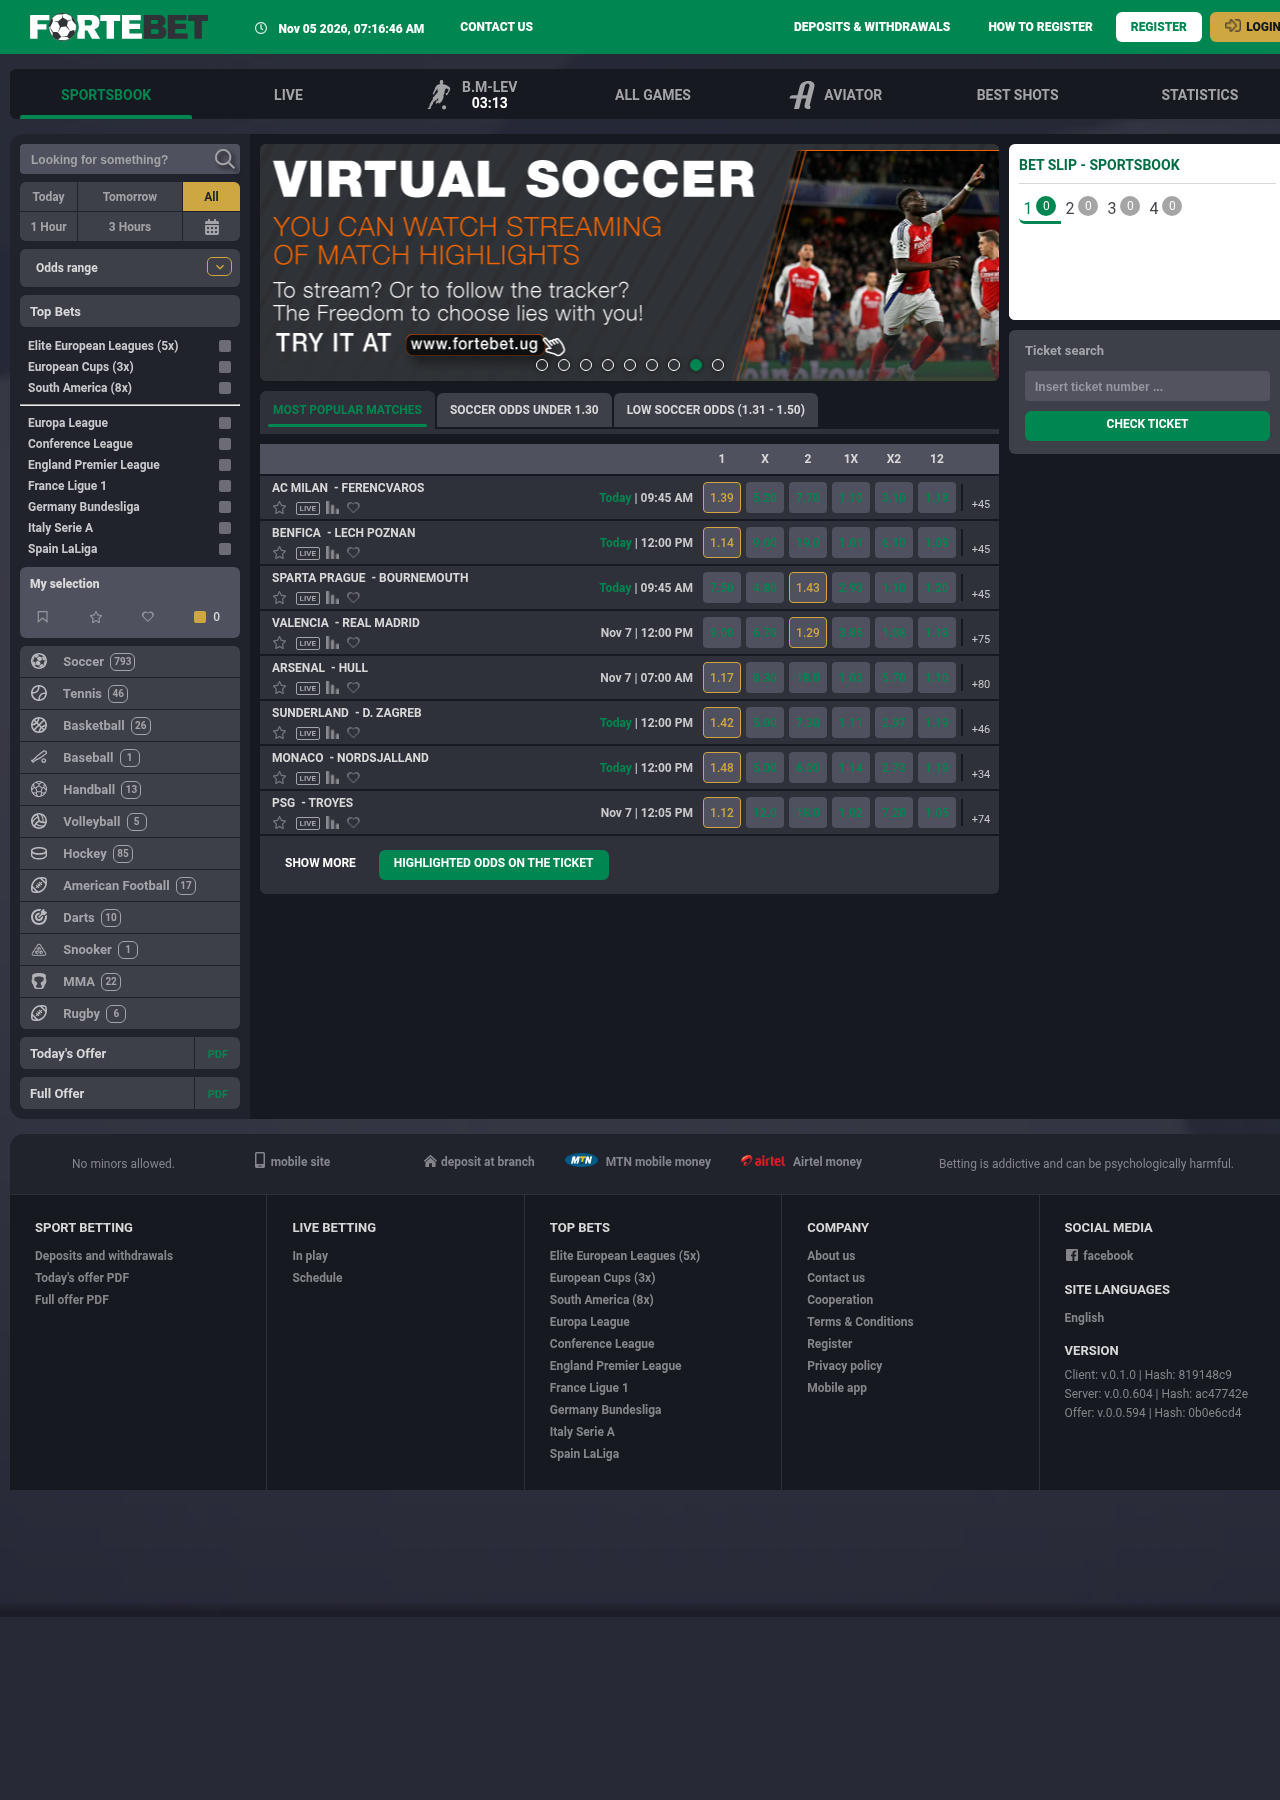
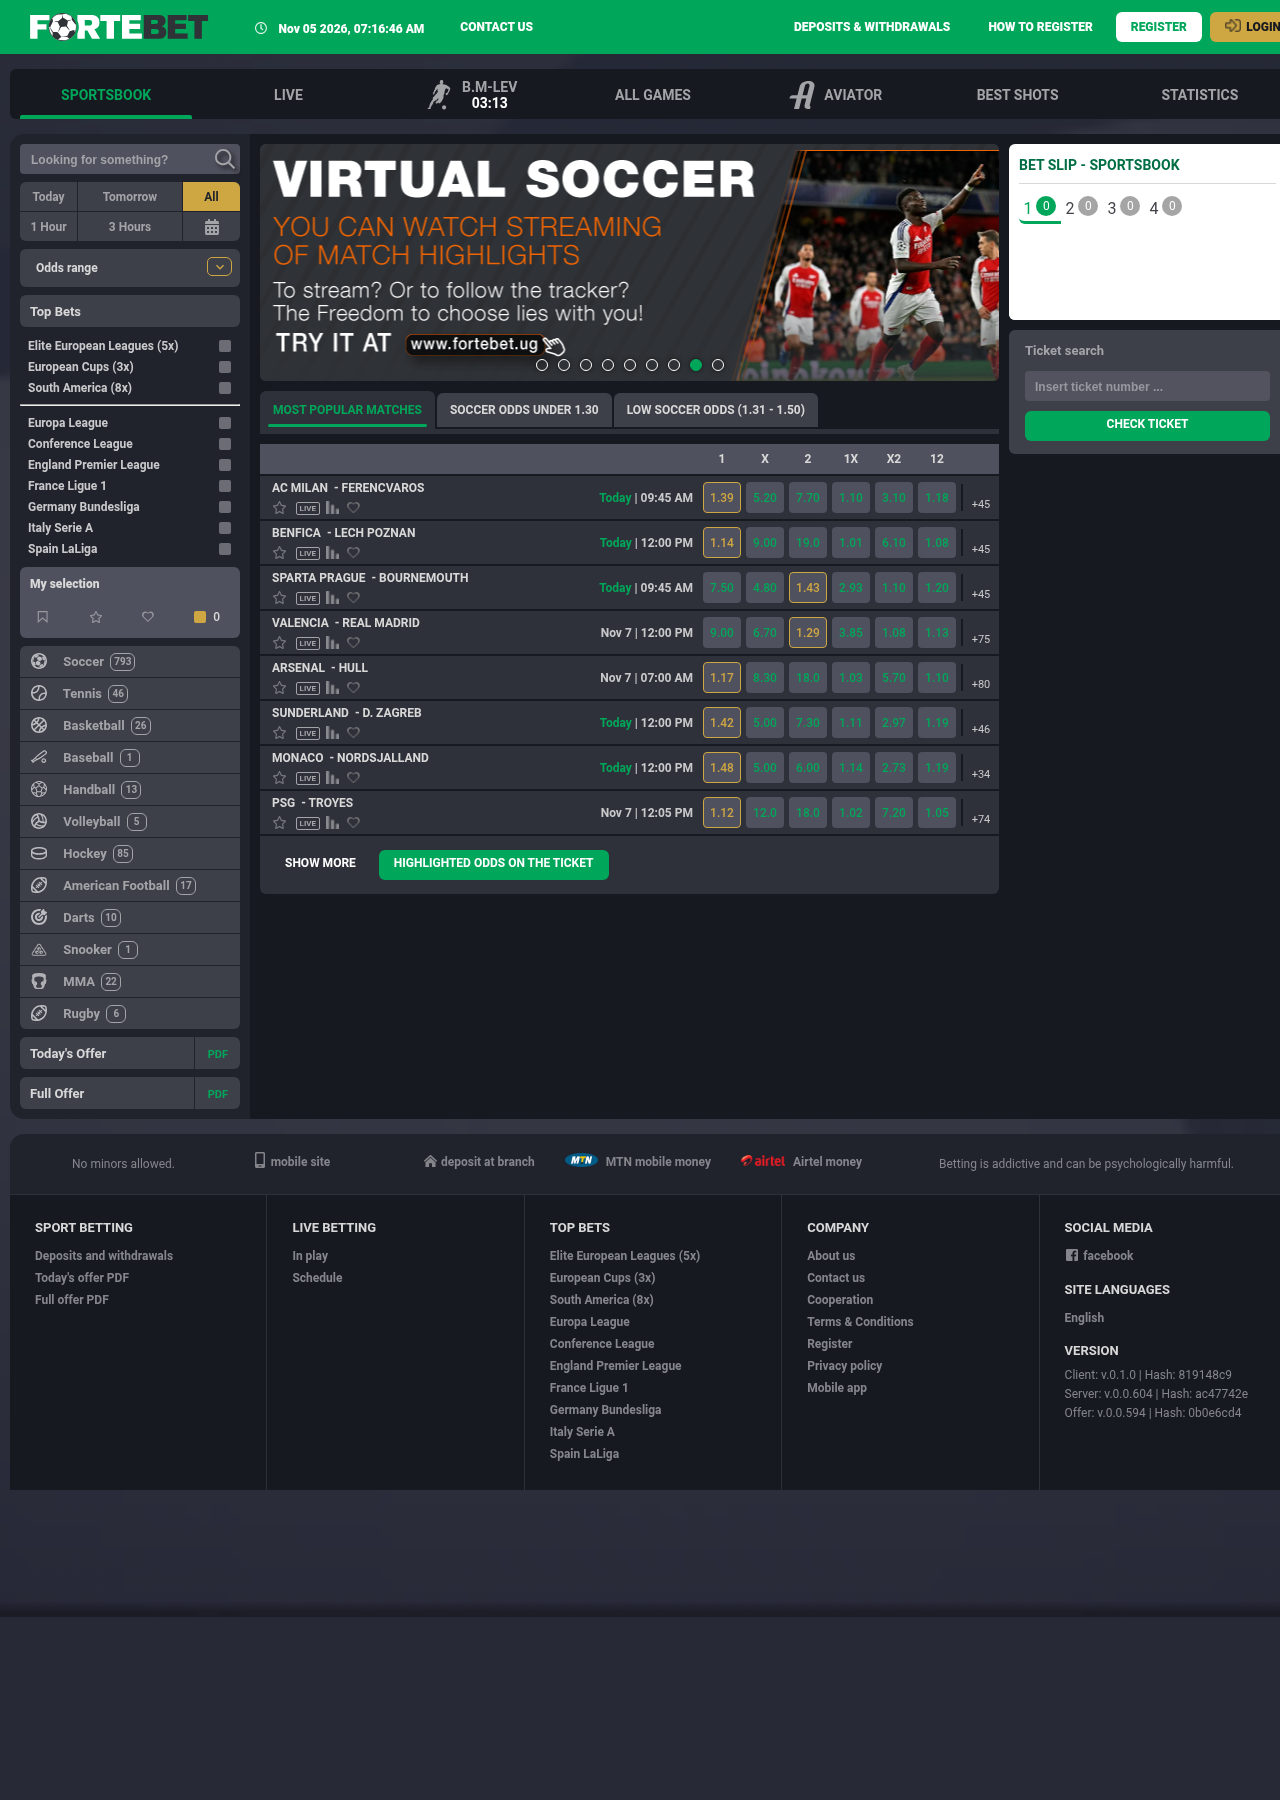
Changes

diff --git a/src/styles/site.css b/src/styles/site.css
@@ -26,7 +26,7 @@ body {
   color: var(--color-font-main);
   height: 100%;
 }
-*{scrollbar-width:thin;scrollbar-color:#d7d7d9 transparent}*::-webkit-scrollbar{width:calc(4px * var(--factor))}*::-webkit-scrollbar-track{background:transparent}*::-webkit-scrollbar-thumb{background-color:#d7d7d9;border-radius:calc(10px * var(--factor));border:calc(3px * var(--factor)) solid transparent}@media (max-width: 3000px){:root{--factor:1;--resolution:"resolution Full HD"}}@media (min-width: 3000px){:root{--factor:2;--resolution:"resolution 4K"}}@media only screen and (max-width: 992px){:root{--mobileDisplayBlock:block}}:root{--brand-500:#00a65a;--brand-600:#006e42;--brand-700:#cc4f00;--brand-800:#a24200;--brand-900:#7a3300;--brand-glow:rgba(0, 166, 90, .35)}
+*{scrollbar-width:thin;scrollbar-color:#d7d7d9 transparent}*::-webkit-scrollbar{width:calc(4px * var(--factor))}*::-webkit-scrollbar-track{background:transparent}*::-webkit-scrollbar-thumb{background-color:#d7d7d9;border-radius:calc(10px * var(--factor));border:calc(3px * var(--factor)) solid transparent}@media (max-width: 3000px){:root{--factor:1;--resolution:"resolution Full HD"}}@media (min-width: 3000px){:root{--factor:2;--resolution:"resolution 4K"}}@media only screen and (max-width: 992px){:root{--mobileDisplayBlock:block}}:root{--brand-500:#00a65a;--brand-600:#006e42;--brand-700:#00894a;--brand-800:#006b3a;--brand-900:#004d2a;--brand-glow:rgba(0, 166, 90, .35)}
 
 
 .devBumpContainer > div { display: none; font-size: 11px; }
@@ -8951,7 +8951,7 @@ span.green { color: rgb(27, 188, 17); }
 .dw_cardChoose > div > div.newOne, .dw_cardChoose > div > label.newOne { width: calc(380px * var(--factor)); text-transform: uppercase; font-weight: 500; }
 .dw_cardChoose > div > div:hover, .dw_cardChoose > div > label:hover { color: rgb(0, 166, 90); }
 .dw_cardChoose > div > label { cursor: pointer; }
-:root { --brand-500: #00a65a; --brand-600: #006e42; --brand-700: #cc4f00; --brand-800: #a24200; --brand-900: #7a3300; --brand-glow: rgba(0, 166, 90, .35); }
+:root { --brand-500: #00a65a; --brand-600: #006e42; --brand-700:#00894a; --brand-800:#006b3a; --brand-900:#004d2a; --brand-glow: rgba(0, 166, 90, .35); }
 
 
 
@@ -9474,3 +9474,5 @@ svg.leaflet-zoom-animated { will-change: transform; }
 
 [_nghost-oky-c201] { display: none; }
 
+
+.odds, .odds *{color:#22d47e}
